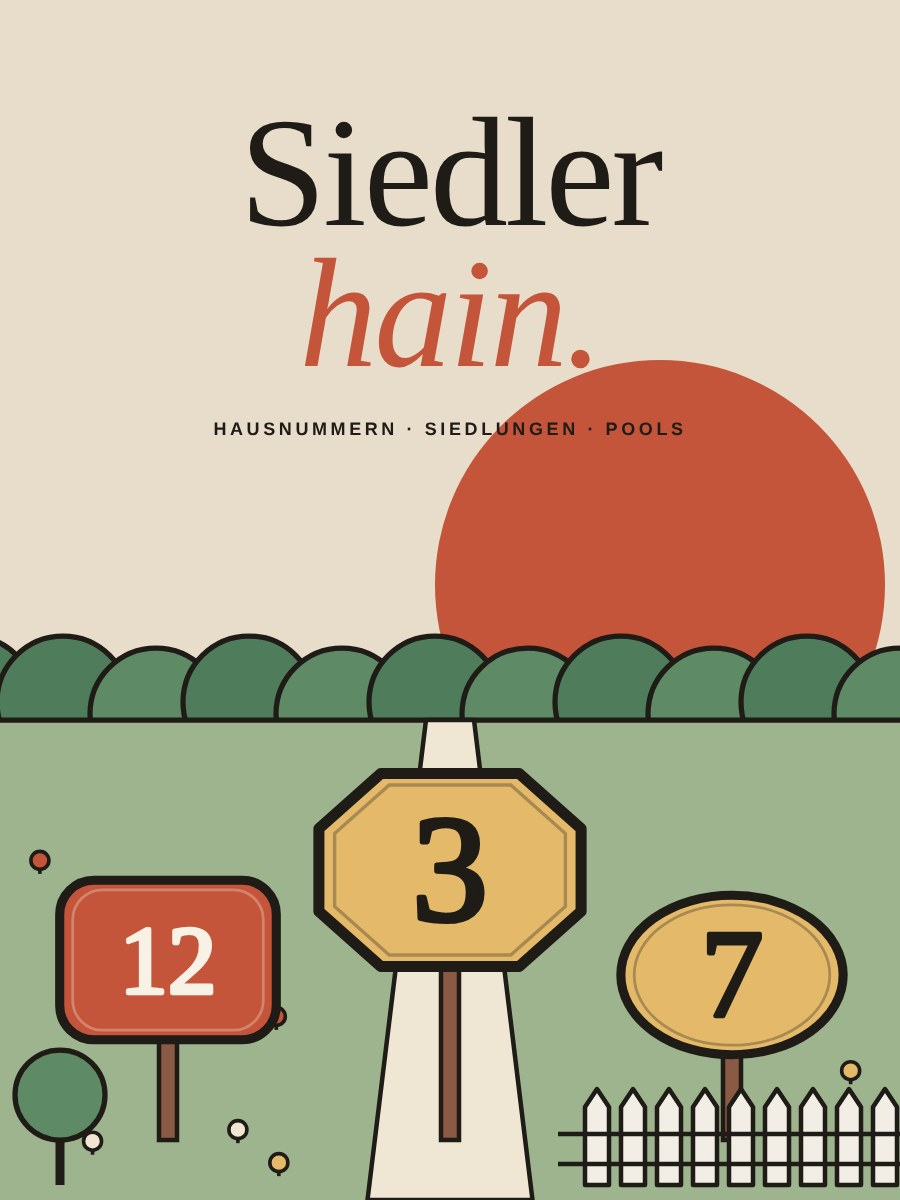
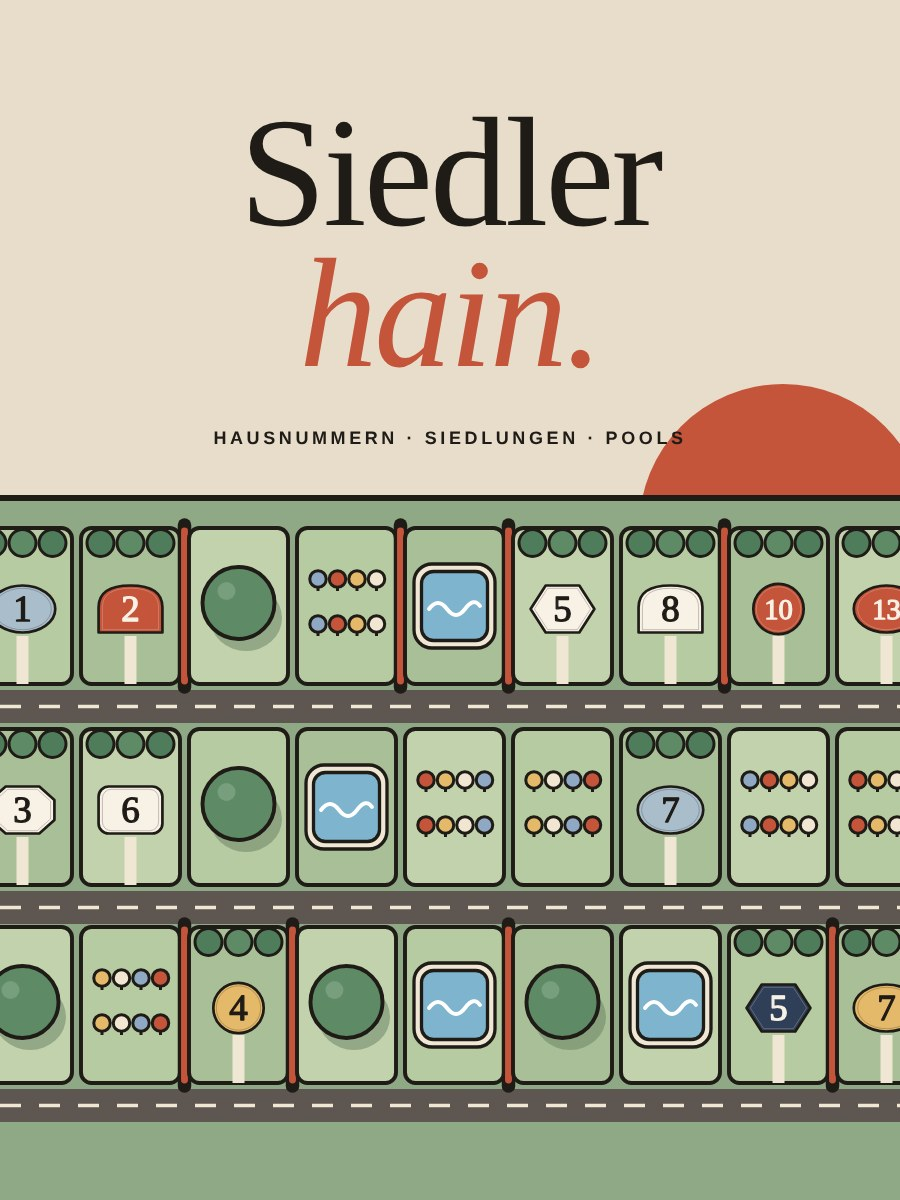
Siedlerhain: neues Cover als Luftbild des Viertels, Siedlungswertungs-Karten mit Werteleiter, Zähler mit Symbolen
Claude-Session: https://claude.ai/code/session_01Me5yne2oZt8Nd5FFhcHSX1

diff --git a/welcome-to/index.html b/welcome-to/index.html
@@ -127,11 +127,24 @@ svg{display:block}
 .est.done b{background:var(--ink);color:var(--paper);border-radius:99px;padding:3px 8px 2px;margin-top:-2px;font-weight:400}
 
 .stats{display:flex;flex-direction:column;gap:10px}
-.estgrid{display:grid;grid-template-columns:repeat(6,minmax(0,1fr));gap:6px}
+.estgrid{display:grid;grid-template-columns:repeat(3,minmax(0,1fr));gap:8px}
+.ecard{background:var(--card);border:1px solid var(--line);border-radius:10px;padding:10px 8px 9px;display:flex;flex-direction:column;align-items:flex-start;gap:6px;min-width:0}
+.ecard.has{border-color:var(--sage);background:color-mix(in srgb,var(--sage) 16%,var(--card))}
+.ecard .eh{display:flex;justify-content:space-between;align-items:baseline;width:100%;font:600 9.5px/1 var(--fb);letter-spacing:.12em;text-transform:uppercase;color:var(--ink2)}
+.ecard .eh b{font:400 15px/1 var(--fd);letter-spacing:0;color:var(--ink)}
+.ecard .pe{margin:2px 0 0}
+.ecard .pe svg{width:11px;height:14px}
+.eval{font:400 46px/.9 var(--fd);color:var(--acc);letter-spacing:-.02em}
+.elad{display:flex;flex-wrap:nowrap;gap:1px}
+.elad span{font:400 12.5px/1 var(--fd);padding:3px 4.5px 2px;border-radius:99px;color:var(--ink2)}
+.elad .past{text-decoration:line-through;opacity:.45}
+.elad .cur{background:var(--ink);color:var(--paper)}
+.ecard small{font-size:10.5px;color:var(--ink2)}
 .cgrid{display:grid;grid-template-columns:repeat(4,minmax(0,1fr));gap:6px}
 .cell{background:var(--card);border:1px solid var(--line);border-radius:8px;padding:8px 3px 7px;text-align:center;display:flex;flex-direction:column;gap:3px;min-width:0}
 .cell small{font-size:10px;color:var(--ink2);line-height:1.2}
-.cell b{font:400 26px/1 var(--fd)}
+.cell b{font:400 28px/1 var(--fd)}
+.cell svg{width:32px;height:32px;margin:0 auto 3px;padding:4px;border-radius:50%;background:#F7F1E6}
 .pips{display:flex;justify-content:center;gap:3px;min-height:6px}
 .pip{width:6px;height:6px;border-radius:50%;border:1px solid var(--ink2)}
 .pip.on{background:var(--acc);border-color:var(--acc)}
@@ -797,7 +810,7 @@ details[open] summary{margin-bottom:8px}
     s += '<rect y="42" width="120" height="42" fill="' + lawn + '"/><path d="M0 42H120" stroke="' + INK + '" stroke-width="1.8"/>';
     s += '<path d="M52 84L56 44H64L68 84Z" fill="#EFE6D3" stroke="' + INK + '" stroke-width="1.4" stroke-linejoin="round"/>';
     s += '<path d="M54 74H66M55 62H65M56 52H64" stroke="' + INK + '" stroke-opacity=".25" stroke-width="1"/>';
-    s += '<rect x="56" y="56" width="8" height="20" fill="#8A5A44" stroke="' + INK + '" stroke-width="1.8"/>' + plaqueG(n, seed);
+    s += '<rect x="56" y="58" width="8" height="20" fill="#8A5A44" stroke="' + INK + '" stroke-width="1.8"/><g transform="translate(60 38) scale(.93) translate(-60 -34)">' + plaqueG(n, seed) + '</g>';
     // Beiwerk je Karte
     const tx = k % 2 ? 106 : 14;
     if (k < 2) s += '<path d="M' + tx + ' 70V54" stroke="' + INK + '" stroke-width="2.6"/><circle cx="' + tx + '" cy="48" r="10" fill="#5F8A66" stroke="' + INK + '" stroke-width="1.8"/>';
@@ -811,26 +824,44 @@ details[open] summary{margin-bottom:8px}
       '<path d="M20 36Q27 29 33 40Q27 46 20 42Z" fill="#E9CBA7" stroke="' + INK + '" stroke-width="2" stroke-linejoin="round"/><circle cx="38" cy="29" r="2.2" fill="' + INK + '"/>' +
       '<path d="M26 50L25 57M36 50L37 57" stroke="' + INK + '" stroke-width="2.2" stroke-linecap="round"/></svg>';
   }
+  // Cover: Luftbild eines Viertels wie im Spiel, drei Straßen mit Vorgärten, Hausnummernschildern in aufsteigender Reihenfolge, Pools, Bäumen und Zäunen
   function coverSVG() {
-    let s = '<svg class="cover" id="coverArt" viewBox="0 0 600 800" preserveAspectRatio="xMidYMid slice" xmlns="http://www.w3.org/2000/svg" role="img" aria-label="Hausnummernschilder in einem Vorgarten mit Hecke, Zaun und Sonne">';
+    const R = rng(23), GR = ['#B7CBA3', '#A9BF98', '#C2D2AD'], FL = ['#C4543A', '#E4B96A', '#F1E6D2', '#8FA8C4'];
+    let s = '<svg class="cover" id="coverArt" viewBox="0 0 600 800" preserveAspectRatio="xMidYMid slice" xmlns="http://www.w3.org/2000/svg" role="img" aria-label="Luftbild eines Viertels mit Vorgärten, Hausnummernschildern, Pools und Zäunen">';
     s += '<rect width="600" height="800" fill="#E8DDCB"/>';
-    s += '<circle cx="440" cy="390" r="150" fill="#C4543A"/>';
-    for (let x = -20; x < 640; x += 62) s += '<circle cx="' + x + '" cy="' + (468 + ((x / 62 | 0) % 2) * 8) + '" r="44" fill="' + ((x / 62 | 0) % 2 ? '#5F8A66' : '#4F7D5C') + '" stroke="' + INK + '" stroke-width="3.5"/>';
-    s += '<rect y="480" width="600" height="320" fill="#9DB48E"/><path d="M0 480H600" stroke="' + INK + '" stroke-width="3.5"/>';
-    s += '<path d="M245 800L284 480H316L355 800Z" fill="#EFE6D3" stroke="' + INK + '" stroke-width="3" stroke-linejoin="round"/>';
-    const fl = ['#C4543A', '#E4B96A', '#F1E6D2', '#8FA8C4'], R = rng(7);
-    for (let i = 0; i < 16; i++) { const x = 20 + R() * 560, y = 560 + R() * 220; if (x > 240 && x < 360) continue; s += '<path d="M' + f1(x) + ' ' + f1(y + 9) + 'V' + f1(y) + '" stroke="' + INK + '" stroke-width="2.4"/><circle cx="' + f1(x) + '" cy="' + f1(y) + '" r="6" fill="' + fl[i % 4] + '" stroke="' + INK + '" stroke-width="2.4"/>'; }
-    [[12, 112, 640, 1.9, 1], [3, 300, 580, 2.3, 2], [7, 488, 650, 1.9, 0]].forEach(([n, x, y, k, sd]) => {
-      const bottom = y + 28 * k;
-      s += '<rect x="' + (x - 6) + '" y="' + (bottom - 6) + '" width="12" height="' + (760 - bottom + 6) + '" fill="#8A5A44" stroke="' + INK + '" stroke-width="3"/>';
-      s += '<g transform="translate(' + x + ' ' + y + ') scale(' + k + ') translate(-60 -34)">' + plaqueG(n, sd) + '</g>';
+    s += '<circle cx="522" cy="352" r="96" fill="#C4543A"/>';
+    s += '<rect y="332" width="600" height="468" fill="#8FA886"/><path d="M0 332H600" stroke="' + INK + '" stroke-width="4"/>';
+    const rowsY = [352, 486, 618], H = 104, roadsY = [460, 594, 726], starts = [0, 2, 1];
+    roadsY.forEach(y => {
+      s += '<rect x="-10" y="' + y + '" width="620" height="22" fill="#5E5650"/><path d="M0 ' + (y + 11) + 'H600" stroke="#EFE6D3" stroke-width="2.4" stroke-dasharray="14 12"/>';
     });
-    s += '<path d="M40 790V760" stroke="' + INK + '" stroke-width="6"/><circle cx="40" cy="730" r="30" fill="#5F8A66" stroke="' + INK + '" stroke-width="3.5"/>';
-    for (let i = 0; i < 9; i++) { const x = 390 + i * 24; s += '<path d="M' + x + ' 790V738L' + (x + 8) + ' 726L' + (x + 16) + ' 738V790Z" fill="#F3EEE5" stroke="' + INK + '" stroke-width="3" stroke-linejoin="round"/>'; }
-    s += '<path d="M372 756H600M372 776H600" stroke="' + INK + '" stroke-width="3"/>';
+    rowsY.forEach((y, r) => {
+      let num = starts[r];
+      for (let i = 0; i < 9; i++) {
+        const x = -18 + 72 * i, W = 66, c = R();
+        s += '<rect x="' + x + '" y="' + y + '" width="' + W + '" height="' + H + '" rx="7" fill="' + GR[(i + r) % 3] + '" stroke="' + INK + '" stroke-width="2.6"/>';
+        if (c < .5) {
+          num = Math.min(17, num + 1 + (R() * 3 | 0));
+          for (let k = 0; k < 3; k++) s += '<circle cx="' + (x + 13 + k * 20) + '" cy="' + (y + 10) + '" r="9" fill="' + (k % 2 ? '#5F8A66' : '#4F7D5C') + '" stroke="' + INK + '" stroke-width="2"/>';
+          s += '<rect x="' + (x + 29) + '" y="' + (y + 72) + '" width="8" height="' + (H - 72) + '" fill="#EFE6D3"/>';
+          s += '<g transform="translate(' + (x + 33) + ' ' + (y + 54) + ') scale(.56) translate(-60 -34)">' + plaqueG(num, i + r) + '</g>';
+        } else if (c < .7) {
+          s += '<ellipse cx="' + (x + 38) + '" cy="' + (y + 60) + '" rx="24" ry="22" fill="#6E8566" opacity=".55"/>';
+          s += '<circle cx="' + (x + 33) + '" cy="' + (y + 50) + '" r="24" fill="#5F8A66" stroke="' + INK + '" stroke-width="2.6"/><circle cx="' + (x + 25) + '" cy="' + (y + 42) + '" r="6" fill="#7DA383" opacity=".8"/>';
+        } else if (c < .8) {
+          s += '<rect x="' + (x + 6) + '" y="' + (y + 24) + '" width="54" height="56" rx="12" fill="#EFE6D3" stroke="' + INK + '" stroke-width="2.2"/><rect x="' + (x + 11) + '" y="' + (y + 29) + '" width="44" height="46" rx="8" fill="#7FB4CE" stroke="' + INK + '" stroke-width="2.2"/>';
+          s += '<path d="M' + (x + 16) + ' ' + (y + 54) + 'Q' + (x + 22) + ' ' + (y + 46) + ' ' + (x + 28) + ' ' + (y + 54) + 'T' + (x + 40) + ' ' + (y + 54) + 'T' + (x + 50) + ' ' + (y + 52) + '" fill="none" stroke="#fff" stroke-width="2.6" stroke-linecap="round"/>';
+        } else if (c < .92) {
+          for (let k = 0; k < 8; k++) { const fx = x + 14 + (k % 4) * 13, fy = y + 34 + (k / 4 | 0) * 30; s += '<path d="M' + fx + ' ' + fy + 'v8" stroke="' + INK + '" stroke-width="2"/><circle cx="' + fx + '" cy="' + fy + '" r="5.5" fill="' + FL[(k + i) % 4] + '" stroke="' + INK + '" stroke-width="2"/>'; }
+        } else {
+          s += '<rect x="' + (x + 9) + '" y="' + (y + 22) + '" width="48" height="60" rx="5" fill="none" stroke="' + INK + '" stroke-opacity=".5" stroke-width="2.2" stroke-dasharray="6 5"/>';
+        }
+        if (i < 8 && R() < .28) s += '<path d="M' + (x + W + 3) + ' ' + (y - 2) + 'V' + (y + H + 2) + '" stroke="' + INK + '" stroke-width="9" stroke-linecap="round"/><path d="M' + (x + W + 3) + ' ' + (y + 2) + 'V' + (y + H - 2) + '" stroke="#C4543A" stroke-width="4.6" stroke-linecap="round"/>';
+      }
+    });
     s += '<text x="300" y="150" text-anchor="middle" font-size="104" fill="' + INK + '" ' + SERIF + ' letter-spacing="-2">Siedler</text>';
     s += '<text x="300" y="244" text-anchor="middle" font-size="104" font-style="italic" fill="#C4543A" ' + SERIF + ' letter-spacing="-2">hain.</text>';
-    s += '<text x="300" y="290" text-anchor="middle" font-size="12" letter-spacing="2.4" fill="' + INK + '" font-family="Inter Tight, sans-serif" font-weight="600">HAUSNUMMERN · SIEDLUNGEN · POOLS</text>';
+    s += '<text x="300" y="296" text-anchor="middle" font-size="12" letter-spacing="2.4" fill="' + INK + '" font-family="Inter Tight, sans-serif" font-weight="600">HAUSNUMMERN · SIEDLUNGEN · POOLS</text>';
     return s + '</svg>';
   }
   const sgn = v => (v > 0 ? '+' + v : v < 0 ? '−' + Math.abs(v) : '0');
@@ -997,19 +1028,23 @@ details[open] summary{margin-bottom:8px}
 
   function stats(sc) {
     const counts = G.completedCounts(S);
-    let h = '<section class="stats"><p class="label">Siedlungswerte (der Makler erhöht sie)</p><div class="estgrid">';
+    let h = '<section class="stats"><p class="label">Siedlungswertung</p><div class="estgrid">';
     for (let k = 0; k < 6; k++) {
-      const max = G.EST_VALUES[k].length - 1;
-      let pips = '';
-      for (let j = 0; j < max; j++) pips += '<i class="pip' + (j < S.marks[k] ? ' on' : '') + '"></i>';
-      h += '<div class="cell"' + inf('Fertige Siedlungen der Größe ' + (k + 1) + ' zählen je ' + G.EST_VALUES[k][S.marks[k]] + ' Punkte. Die Punkte darunter zeigen, wie oft der Makler noch steigern kann.') + '><small>Größe ' + (k + 1) + '</small><b>' + G.EST_VALUES[k][S.marks[k]] + '</b><div class="pips">' + pips +
-        '</div><small>' + counts[k + 1] + ' fertig</small></div>';
+      const vals = G.EST_VALUES[k], cur = vals[S.marks[k]], c = counts[k + 1];
+      let houses = '';
+      for (let j = 0; j <= k; j++) houses += miniHouse(c > 0, k * 3 + j + 1);
+      const ladder = vals.map((v, j) => '<span class="' + (j < S.marks[k] ? 'past' : j === S.marks[k] ? 'cur' : '') + '">' + v + '</span>').join('');
+      h += '<div class="ecard' + (c > 0 ? ' has' : '') + '"' + inf('Fertige Siedlungen mit ' + (k + 1) + ' Häusern zählen je ' + cur + ' Punkte. Der Makler kann den Wert noch ' + (vals.length - 1 - S.marks[k]) + '-mal steigern (Leiter unten). Du hast ' + c + ' fertig.') + '>' +
+        '<div class="eh"><span>Größe ' + (k + 1) + '</span><b>' + c + '×</b></div><span class="pe' + (c > 0 ? ' ok' : '') + '">' + houses + '</span>' +
+        '<div class="eval">' + cur + '</div><div class="elad">' + ladder + '</div><small>' + (c ? '= ' + c * cur + ' Punkte' : 'noch keine fertig') + '</small></div>';
     }
+    const ico = e => effSVG(e);
+    const nope = '<svg viewBox="0 0 48 48" aria-hidden="true"><circle cx="24" cy="24" r="16" fill="none" stroke="' + INK + '" stroke-width="2.6"/><path d="M15 15L33 33" stroke="#C4543A" stroke-width="3.2" stroke-linecap="round"/></svg>';
     h += '</div><div class="cgrid">' +
-      '<div class="cell"' + inf('Swimmingpools: Je mehr du baust, desto mehr Punkte (bis 9 Pools).') + '><small>Pools</small><b>' + sc.poolCount + '</b><small>' + sgn(sc.pools) + ' Pkt</small></div>' +
-      '<div class="cell"' + inf('Zeitarbeit: Ab 6 Zeitarbeitern gibt es 7 Punkte, sonst keinen. Es gibt 11 Felder.') + '><small>Zeitarbeit</small><b>' + S.temps + '</b><small>' + sgn(sc.temps) + ' Pkt</small></div>' +
-      '<div class="cell"' + inf('Doppelte Hausnummern kosten Punkte, und es werden immer mehr.') + '><small>Doppelte</small><b>' + S.bis + '</b><small>' + sgn(sc.bis) + ' Pkt</small></div>' +
-      '<div class="cell"' + inf('Abgelehnte Bauanträge: Der erste kostet nichts, der zweite 3 Punkte, der dritte 5 Punkte und beendet das Spiel.') + '><small>Abgelehnt</small><b>' + S.refusals + '</b><small>' + sgn(sc.refusals) + ' Pkt</small></div></div>' +
+      '<div class="cell"' + inf('Swimmingpools: Je mehr du baust, desto mehr Punkte (bis 9 Pools).') + '>' + ico('pool') + '<b>' + sc.poolCount + '</b><small>Pools · ' + sgn(sc.pools) + ' Pkt</small></div>' +
+      '<div class="cell"' + inf('Zeitarbeit: Ab 6 Zeitarbeitern gibt es 7 Punkte, sonst keinen. Es gibt 11 Felder.') + '>' + ico('temp') + '<b>' + S.temps + '</b><small>Zeitarbeit · ' + sgn(sc.temps) + ' Pkt</small></div>' +
+      '<div class="cell"' + inf('Doppelte Hausnummern kosten Punkte, und es werden immer mehr.') + '>' + ico('bis') + '<b>' + S.bis + '</b><small>Doppelte · ' + sgn(sc.bis) + ' Pkt</small></div>' +
+      '<div class="cell"' + inf('Abgelehnte Bauanträge: Der erste kostet nichts, der zweite 3 Punkte, der dritte 5 Punkte und beendet das Spiel.') + '>' + nope + '<b>' + S.refusals + '</b><small>Abgelehnt · ' + sgn(sc.refusals) + ' Pkt</small></div></div>' +
       '<details><summary>Zwischenwertung</summary>' + lines(sc) + '</details></section>';
     return h;
   }

diff --git a/CLAUDE.md b/CLAUDE.md
@@ -293,7 +293,7 @@ Ziele/Ende; wird weder gespeichert noch gemeldet, kein Zug rückgängig, kein au
 
 ## Siedlerhain (`welcome-to/`)
 
-Siebtes Browserspiel: Flip-&-Write nach **Welcome To…** (BGG 233867), Regeln, Kartenliste (81 Karten, `DECK_TABLE`), die drei Stadtpläne je 6 Karten (`PLAN_CARDS`), Poolplätze und Wertungstabellen **exakt nach den Regelheften des Owners** (Basisspiel + offizielle Solo-Variante). Eigene Zeichnungen, keine Originaltexte oder -bilder. Zwei Modi: **Solo** (27 Runden, 3 Karten pro Runde, Solo-Karte, danach gelten offene Pläne als von der Konkurrenz erfüllt) und **Basisspiel allein** (3 Stapel, Kombinationen, Neumischen nach dem ersten Plan). Hausnummern sind sichtbar Hausnummern: Baukarten zeigen wie im Original die große Hausnummer im Vorgarten (kein Haus; Hecke, Rasen, Weg, Zaun, Blumen), Straßenfelder sind Vorgärten (`lotSVG`) an einer Fahrbahn mit Mittellinie, gebaute Felder kleine Häuser mit Nummer. Effekte als Figuren (Geometer, Immobilienmakler, Landschaftsgärtner, Swimmingpool, Zeitarbeit, Doppelte Hausnummer). Zeitarbeit zählt ab 6 Zeitarbeitern 7 Punkte, Ablehnungen 0/−3/−5 (dritte beendet), Ende auch bei drei erfüllten Plänen, vollem Plan oder aufgebrauchtem Stapel. Kein „gewonnen“-Ziel: Ergebnis mit Bestwert (`welcome-to:best:solo|base`), Meldung mit `winners: []`.
+Siebtes Browserspiel: Flip-&-Write nach **Welcome To…** (BGG 233867), Regeln, Kartenliste (81 Karten, `DECK_TABLE`), die drei Stadtpläne je 6 Karten (`PLAN_CARDS`), Poolplätze und Wertungstabellen **exakt nach den Regelheften des Owners** (Basisspiel + offizielle Solo-Variante). Eigene Zeichnungen, keine Originaltexte oder -bilder. Zwei Modi: **Solo** (27 Runden, 3 Karten pro Runde, Solo-Karte, danach gelten offene Pläne als von der Konkurrenz erfüllt) und **Basisspiel allein** (3 Stapel, Kombinationen, Neumischen nach dem ersten Plan). Hausnummern sind sichtbar Hausnummern: Baukarten zeigen wie im Original die große Hausnummer im Vorgarten (kein Haus; Hecke, Rasen, Weg, Zaun, Blumen), Straßenfelder sind Vorgärten (`lotSVG`) an einer Fahrbahn mit Mittellinie; das Cover ist ein Luftbild des Viertels (Vorgärten, Schilder in aufsteigender Reihenfolge, Pools, Bäume, Zäune), Siedlungswerte als Karten mit Haus-Reihe, Wert und Werteleiter (`.ecard`), gebaute Felder kleine Häuser mit Nummer. Effekte als Figuren (Geometer, Immobilienmakler, Landschaftsgärtner, Swimmingpool, Zeitarbeit, Doppelte Hausnummer). Zeitarbeit zählt ab 6 Zeitarbeitern 7 Punkte, Ablehnungen 0/−3/−5 (dritte beendet), Ende auch bei drei erfüllten Plänen, vollem Plan oder aufgebrauchtem Stapel. Kein „gewonnen“-Ziel: Ergebnis mit Bestwert (`welcome-to:best:solo|base`), Meldung mit `winners: []`.
 Die Logik (`window.Siedler`, reines JS, Spielstand `v: 2`) steht im selben `index.html`; Aktionen laufen über `act()` und `data-a`-Knöpfe. Spielregal-Anbindung: Beenden-Link `‹`, Spielstand `welcome-to:save` mit `screen: 'game'`, Partie-Meldung in `spielregal:inbox:plays` mit `source: 'welcome-to'`, `solo: true`. Lernspiel mit Zippel (feste Hände `TUT_HANDS`, wird nicht gespeichert/gemeldet). Test: `test/welcome-to-smoke.mjs`; `test/digital-play-tracking.mjs` schlägt unabhängig davon schon vor diesem Spiel fehl (Grand Hotel, Knopf nicht sichtbar).
 **Variante „Editorial“** (`welcome-to/index.html` (jetzt Standard), gleiche Engine, Owner-Feedback „zu Kindergarten, soll Bild, modern, editorial aussehen“): Instrument Serif + Inter Tight, Erdpalette (Terrakotta `#C4543A`, Salbei, Sand, Dunkelbraun `#1F1B17`), klare Architektur-Aufrisse (`elev`) ohne Wackeln, große Hausnummern als Ziffer, dünne Linien statt Versatzschatten, dunkle Eingabeleiste. Die frühere naive Fassung bleibt als `welcome-to/naiv.html` erhalten (Owner: Design-Iterationen nur als neue Varianten); Test für sie: `WT_FILE=naiv.html node test/welcome-to-smoke.mjs`.
 **Nicht umgesetzt:** Mehrspieler, Fortgeschrittenen-/Expertenregeln (Kreisverkehre, zusätzliche Pläne), Erweiterungen, AAA-Solo; steht so auch in den Spielregeln unter „Unterschiede zum Original“ (bei Änderungen mitpflegen).
